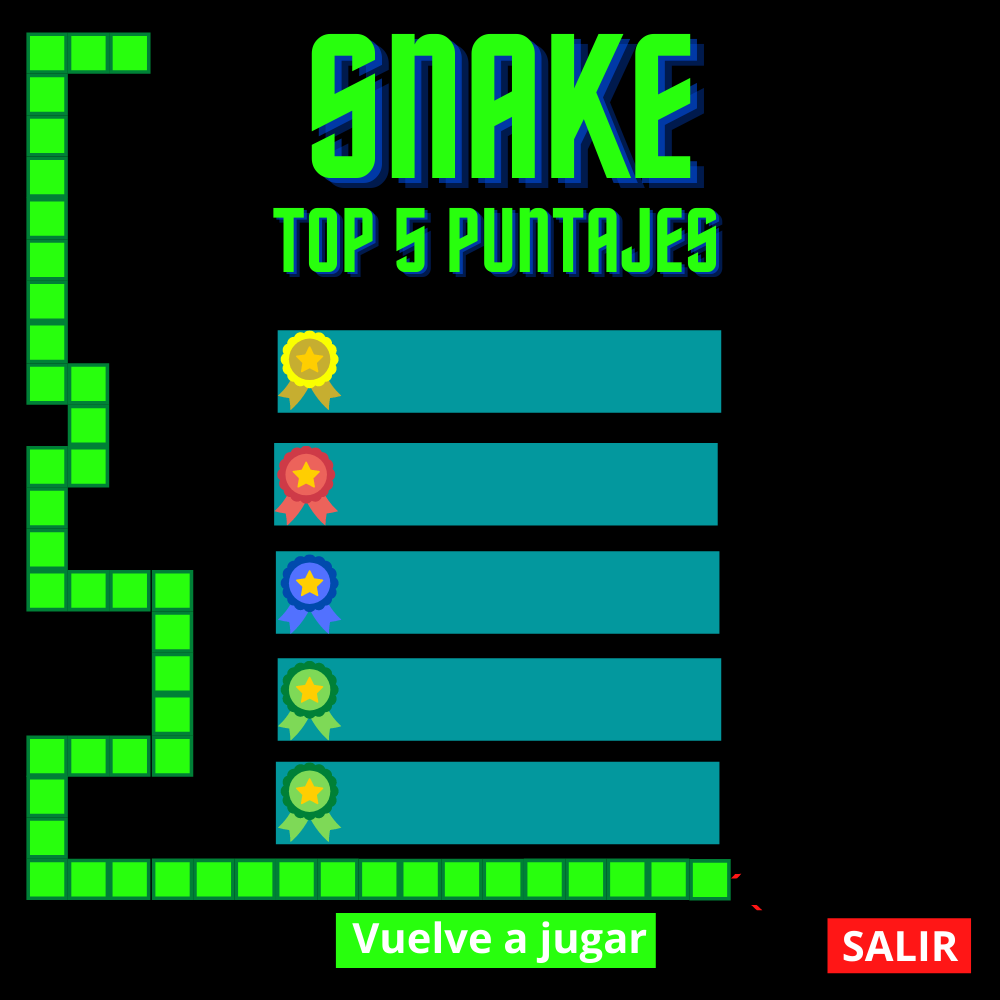
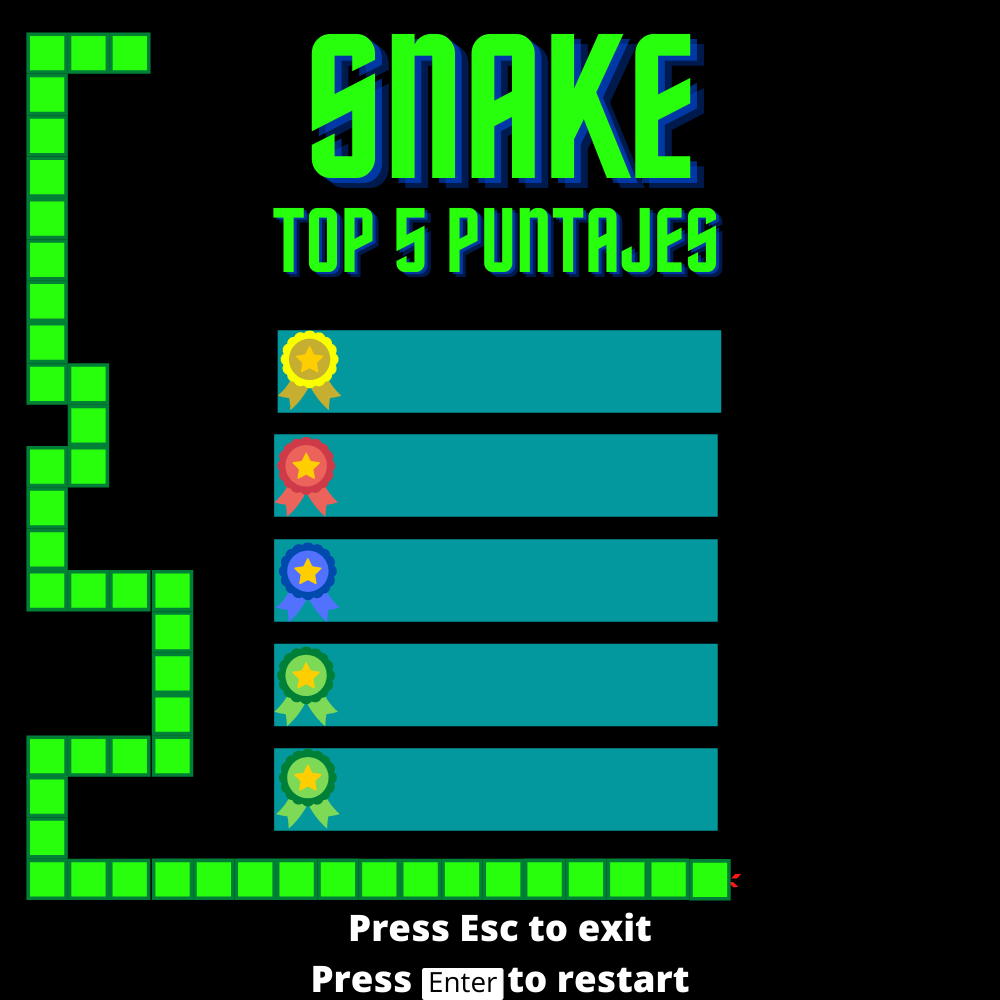
Tablero de Punteos Activo
Se arreglaron unops pequeños problemas, se agrego la lista para los punteos y se presenta la lista en pantalla

Changed region(s): [[0.248, 0.434, 0.744, 0.868], [0.31, 0.899, 0.713, 1.0], [0.806, 0.899, 0.992, 0.992]]

diff --git a/snake/Source.cpp b/snake/Source.cpp
@@ -2,6 +2,7 @@
 #include <string>
 #include <time.h>
 #include "Alimento.h"
+#include "Lista.h"
 #include "Cola.h"
 #include <allegro5/allegro.h>
 #include <allegro5/allegro_image.h>
@@ -13,7 +14,7 @@ using namespace std;
 int main() {
 	//variables
 	srand(time(NULL));
-	bool salir = false, menuprincipal = true, alimentoactivo = false, difactivada = false, juego = false, puntajes = false;
+	bool salir = false, menuprincipal = true, alimentoactivo = false, difactivada = false, juego = false, puntajes = false, agregarpunt = false, bandera = false;
 	int x = 0, y = 0, botonmenu = 0, direccion = 0, xserpiente = 0, yserpiente = 0, velocidad = 10;
 	int probalim = 0, posxalim = 0, posyalim = 0, cascrece = 0;
 	int lad1x = 0, lad1y = 0, lad2x = 0, lad2y = 0, col1x = 0, col1y = 0, col2x = 0, col2y = 0, paredx = 0, paredy = 0;
@@ -23,6 +24,7 @@ int main() {
 	Alimento Pera = Alimento(-1);
 	Alimento Pinia = Alimento(-5);
 	Cola Serpiente = Cola();
+	Lista Puntos = Lista();
 	//iniciacion Allegro
 	al_init();
 	al_install_mouse();
@@ -38,6 +40,7 @@ int main() {
 	ALLEGRO_BITMAP* TabPunt = al_load_bitmap("Imagenes/Puntajes.png");
 	ALLEGRO_COLOR map = al_map_rgb(0, 0, 0);
 	ALLEGRO_COLOR ladrillo = al_map_rgb(153, 10, 10);
+	ALLEGRO_COLOR White = al_map_rgb(255, 255, 255);
 	ALLEGRO_FONT* Gameplay = al_load_font("Gameplay.ttf", 30, 0);
 	ALLEGRO_TIMER* segundoTimer = al_create_timer(0.1);
 	ALLEGRO_EVENT_QUEUE* eventoqueue = al_create_event_queue();
@@ -97,7 +100,8 @@ int main() {
 				Serpiente.Agregar(xserpiente, yserpiente);
 				Serpiente.Agregar(xserpiente, yserpiente);
 				if (Serpiente.ObtenerTamanio() < 4) {
-					salir = true;
+					juego = false;
+					puntajes = true;
 				}
 				menuprincipal = false;
 				juego = true;
@@ -130,6 +134,7 @@ int main() {
 		}
 		//durante el juego
 		if (juego == true) {
+			
 			al_clear_to_color(map);
 			Serpiente.Recorrer();
 			al_draw_text(Gameplay, ladrillo, 750, 960, NULL, ("Punteo: " + to_string(Serpiente.ObtenerTamanio()-4)).c_str());
@@ -215,6 +220,7 @@ int main() {
 			if (xserpiente < -1 || xserpiente >= 1000 || yserpiente < -1 || yserpiente >= 1000) {
 				juego = false;
 				puntajes = true;
+				agregarpunt = true;
 			}
 			//Obstaculos por dificultad
 			if (difactivada == true) {
@@ -235,13 +241,19 @@ int main() {
 				al_draw_filled_rectangle(lad2x, lad2y, lad2x + 40, lad2y + 40, ladrillo);
 				al_draw_filled_rectangle(col1x, col1y, col1x + 80, col1y + 80, ladrillo);
 				if (xserpiente == lad1x && lad1y == yserpiente) {
-					salir = true;
+					juego = false;
+					puntajes = true;
+					agregarpunt = true;
 				}
 				if (xserpiente == lad2x && lad2y == yserpiente) {
-					salir = true;
+					juego = false;
+					puntajes = true;
+					agregarpunt = true;
 				}
 				if (xserpiente >= col1x && yserpiente >= col1y && xserpiente <= col1x + 45 && yserpiente <= col1y + 45) {
-					salir = true;
+					juego = false;
+					puntajes = true;
+					agregarpunt = true;
 				}
 			}
 			if (botonmenu == 3 || botonmenu == 4) {
@@ -251,20 +263,50 @@ int main() {
 				al_draw_filled_rectangle(col2x, col2y, col2x + 80, col2y + 80, ladrillo);
 				al_draw_filled_rectangle(paredx, paredy, paredx + 40, paredy + 240, ladrillo);
 				if (xserpiente == lad1x && lad1y == yserpiente) {
-					salir = true;
+					juego = false;
+					puntajes = true;
+					agregarpunt = true;
 				}
 				if (xserpiente == lad2x && lad2y == yserpiente) {
-					salir = true;
+					juego = false;
+					puntajes = true;
+					agregarpunt = true;
 				}
 				if (xserpiente >= col1x && yserpiente >= col1y && xserpiente <= col1x + 45 && yserpiente <= col1y + 45) {
-					salir = true;
+					juego = false;
+					puntajes = true;
+					agregarpunt = true;
 				}
 				if (xserpiente >= col2x && yserpiente >= col2y && xserpiente <= col2x + 45 && yserpiente <= col2y + 45) {
-					salir = true;
+					juego = false;
+					puntajes = true;
+					agregarpunt = true;
 				}
 				if (xserpiente >= paredx && yserpiente >= paredy && xserpiente <= paredx + 20 && yserpiente <= paredy + 245) {
-					salir = true;
+					juego = false;
+					puntajes = true;
+					agregarpunt = true;
 				}
+			}
+			if (agregarpunt == true) {
+				if (Puntos.ObtenerTamanio() == 0) {
+					Puntos.InsertarInicio(Serpiente.ObtenerTamanio() - 4);
+				}
+				else {
+					for (int i = 0; i < Puntos.ObtenerTamanio(); i++) {
+						if (Puntos.BuscarPosicion(i)->ObtenerNumero() < (Serpiente.ObtenerTamanio() - 4)) {
+							Puntos.InsertarAntes((Serpiente.ObtenerTamanio() - 4), Puntos.BuscarPosicion(i)->ObtenerNumero());
+							bandera = true;
+							break;
+						}
+
+					}
+					if (bandera == false) {
+						Puntos.InsertarFinal(Serpiente.ObtenerTamanio() - 4);
+					}
+					bandera = false;
+				}
+				agregarpunt = false;
 			}
 		}
 		
@@ -272,11 +314,47 @@ int main() {
 		
 		if (puntajes == true) {
 			al_draw_bitmap(TabPunt, 0, 0, 0);
-			if (Evento.mouse.button & 1) {
-				if (x >= 827 && x <= 971 && y >= 914 && y <= 976) {
+			int cantidad;
+			if (Puntos.ObtenerTamanio() < 5) {
+				cantidad = Puntos.ObtenerTamanio();
+			}
+			else {
+				cantidad = 5;
+			}
+			int altletras = 364;
+			for (int j = 0; j < cantidad; j++) {
+				string pun = "Puntos: "+to_string(Puntos.BuscarPosicion(j)->ObtenerNumero());
+				al_draw_text(Gameplay, White, 420,altletras,NULL, (pun.c_str()));
+				altletras = altletras + 100;
+			}
+
+
+			if (Evento.type == ALLEGRO_EVENT_KEY_DOWN) {
+				switch (Evento.keyboard.keycode)
+				{
+				case ALLEGRO_KEY_ENTER:
+					puntajes = false;
+					juego = true;
+					for (int i = Serpiente.ObtenerTamanio(); i > 0; i--) {
+						Serpiente.Eliminar();
+					}
+					xserpiente = 0;
+					yserpiente = 0;
+					Serpiente.Agregar(xserpiente, yserpiente);
+					Serpiente.Agregar(xserpiente, yserpiente);
+					Serpiente.Agregar(xserpiente, yserpiente);
+					Serpiente.Agregar(xserpiente, yserpiente);
+					alimentoactivo = false;
+					direccion = 0;
+					break;
+				case ALLEGRO_KEY_ESCAPE:
 					salir = true;
+					break;
+				default:
+					break;
 				}
 			}
+
 		}
 		al_flip_display();
 	}

diff --git a/snake/Lista.cpp b/snake/Lista.cpp
@@ -1,0 +1,128 @@
+#include "Lista.h"
+NodoPunteo* Lista::BuscarEspecifico(int referencia) {
+	NodoPunteo* aux = this->frente;
+	while (aux != nullptr) {
+		if (aux->ObtenerNumero() == referencia) {
+			return aux;
+		}
+		aux = aux->ObtenerSiguiente();
+	}
+	return aux;
+}
+NodoPunteo* Lista::BuscarPosicion(int referencia) {
+	NodoPunteo* aux = this->frente;
+	if (referencia<0 || referencia>this->tamanio) {
+		throw "El valor no esta dentro de los parametros";
+	}
+	else {
+		for (int i = 0; i < referencia; i++) {
+			aux = aux->ObtenerSiguiente();
+		}
+		return aux;
+	}
+}
+NodoPunteo* Lista::BuscarAnterior(NodoPunteo* referencia) {
+	NodoPunteo* aux = this->frente;
+	while (aux != nullptr) {
+		if (aux->ObtenerSiguiente() == referencia) {
+			return aux;
+		}
+		else {
+			aux = aux->ObtenerSiguiente();
+		}
+	}
+	return aux;
+}
+void Lista::InsertarInicio(int num) {
+	NodoPunteo* nuevo = new NodoPunteo();
+	nuevo->ModificarNumero(num);
+
+	if (this->frente == nullptr && this->fondo == nullptr) {
+		this->frente = nuevo;
+		this->fondo = nuevo;
+		this->tamanio = 1;
+	}
+	else {
+		NodoPunteo* aux = this->frente;
+		this->frente = nuevo;
+		nuevo->ModificarSiguiente(aux);
+		this->tamanio++;
+	}
+}
+void Lista::InsertarFinal(int num) {
+	NodoPunteo* nuevo = new NodoPunteo();
+	nuevo->ModificarNumero(num);
+
+	if (this->frente == nullptr && this->fondo == nullptr) {
+		this->frente = nuevo;
+		this->fondo = nuevo;
+		this->tamanio++;
+	}
+	else {
+		NodoPunteo* aux = this->fondo;
+		this->fondo = nuevo;
+		aux->ModificarSiguiente(nuevo);
+		this->tamanio++;
+	}
+}
+void Lista::InsertarAntes(int num, int referencia) {
+	NodoPunteo* refe = this->BuscarEspecifico(referencia);
+	NodoPunteo* nuevo = new NodoPunteo;
+	nuevo->ModificarNumero(num);
+	if (refe == nullptr) {
+		throw "La referencia no existe";
+	}
+	else {
+		if (refe == this->frente) {
+			this->frente = nuevo;
+			nuevo->ModificarSiguiente(refe);
+			this->tamanio++;
+		}
+		else {
+			NodoPunteo* anterior = this->BuscarAnterior(refe);
+			anterior->ModificarSiguiente(nuevo);
+			nuevo->ModificarSiguiente(refe);
+			this->tamanio++;
+		}
+	}
+}
+void Lista::InsertarDespues(int num, int referencia) {
+	NodoPunteo* ref = this->BuscarEspecifico(referencia);
+	NodoPunteo* nuevo = new NodoPunteo;
+	nuevo->ModificarNumero(num);
+	if (ref == nullptr) {
+		throw "La referencia no existe";
+	}
+	else if (ref == this->fondo) {
+		this->fondo = nuevo;
+		ref->ModificarSiguiente(nuevo);
+		this->tamanio++;
+	}
+	else {
+		NodoPunteo* aux = ref->ObtenerSiguiente();
+		ref->ModificarSiguiente(nuevo);
+		nuevo->ModificarSiguiente(aux);
+		this->tamanio++;
+	}
+}
+NodoPunteo* Lista::EliminarFinal() {
+	NodoPunteo* aux = this->fondo;
+	if (this->tamanio == 0) {
+		throw "error subdesbordamiento";
+	}
+	else if (this->frente == this->fondo) {
+		this->frente = nullptr;
+		this->fondo = nullptr;
+		tamanio = 0;
+	}
+	else {
+		NodoPunteo* anterior = this->BuscarAnterior(this->fondo);
+		this->fondo = anterior;
+		anterior->ModificarSiguiente(nullptr);
+	}
+	this->tamanio--;
+	return aux;
+}
+int Lista::ObtenerTamanio() {
+	return this->tamanio;
+}

diff --git a/snake/Lista.h b/snake/Lista.h
@@ -1,0 +1,21 @@
+#pragma once
+#include "NodoPunteo.h"
+class Lista
+{
+public:
+	void InsertarInicio(int num);
+	void InsertarFinal(int num);
+	void InsertarAntes(int num, int referencia);
+	void InsertarDespues(int num, int referencia);
+	NodoPunteo* EliminarFinal();
+	NodoPunteo* BuscarEspecifico(int referencia);
+	//int BuscarMemoria(NodoPunteo* referencia);
+	NodoPunteo* BuscarPosicion(int referencia);
+	NodoPunteo* BuscarAnterior(NodoPunteo* referencia);
+	int ObtenerTamanio();
+private:
+	int tamanio;
+	NodoPunteo* frente;
+	NodoPunteo* fondo;
+};
+

diff --git a/snake/NodoPunteo.cpp b/snake/NodoPunteo.cpp
@@ -1,0 +1,17 @@
+#include "NodoPunteo.h"
+NodoPunteo::NodoPunteo() {
+	this->numero = 0;
+	this->siguiente = nullptr;
+}
+void NodoPunteo::ModificarNumero(int num) {
+	this->numero = num;
+}
+void NodoPunteo::ModificarSiguiente(NodoPunteo* siguiente) {
+	this->siguiente = siguiente;
+}
+int NodoPunteo::ObtenerNumero() {
+	return this->numero;
+}
+NodoPunteo* NodoPunteo::ObtenerSiguiente() {
+	return this->siguiente;
+}

diff --git a/snake/NodoPunteo.h b/snake/NodoPunteo.h
@@ -1,0 +1,16 @@
+#pragma once
+class NodoPunteo
+{
+public:
+	NodoPunteo();
+	void ModificarNumero(int num);
+	void ModificarSiguiente(NodoPunteo* siguiente);
+	int ObtenerNumero();
+	NodoPunteo* ObtenerSiguiente();
+
+private:
+	int numero;
+	NodoPunteo* siguiente;
+
+};
+
